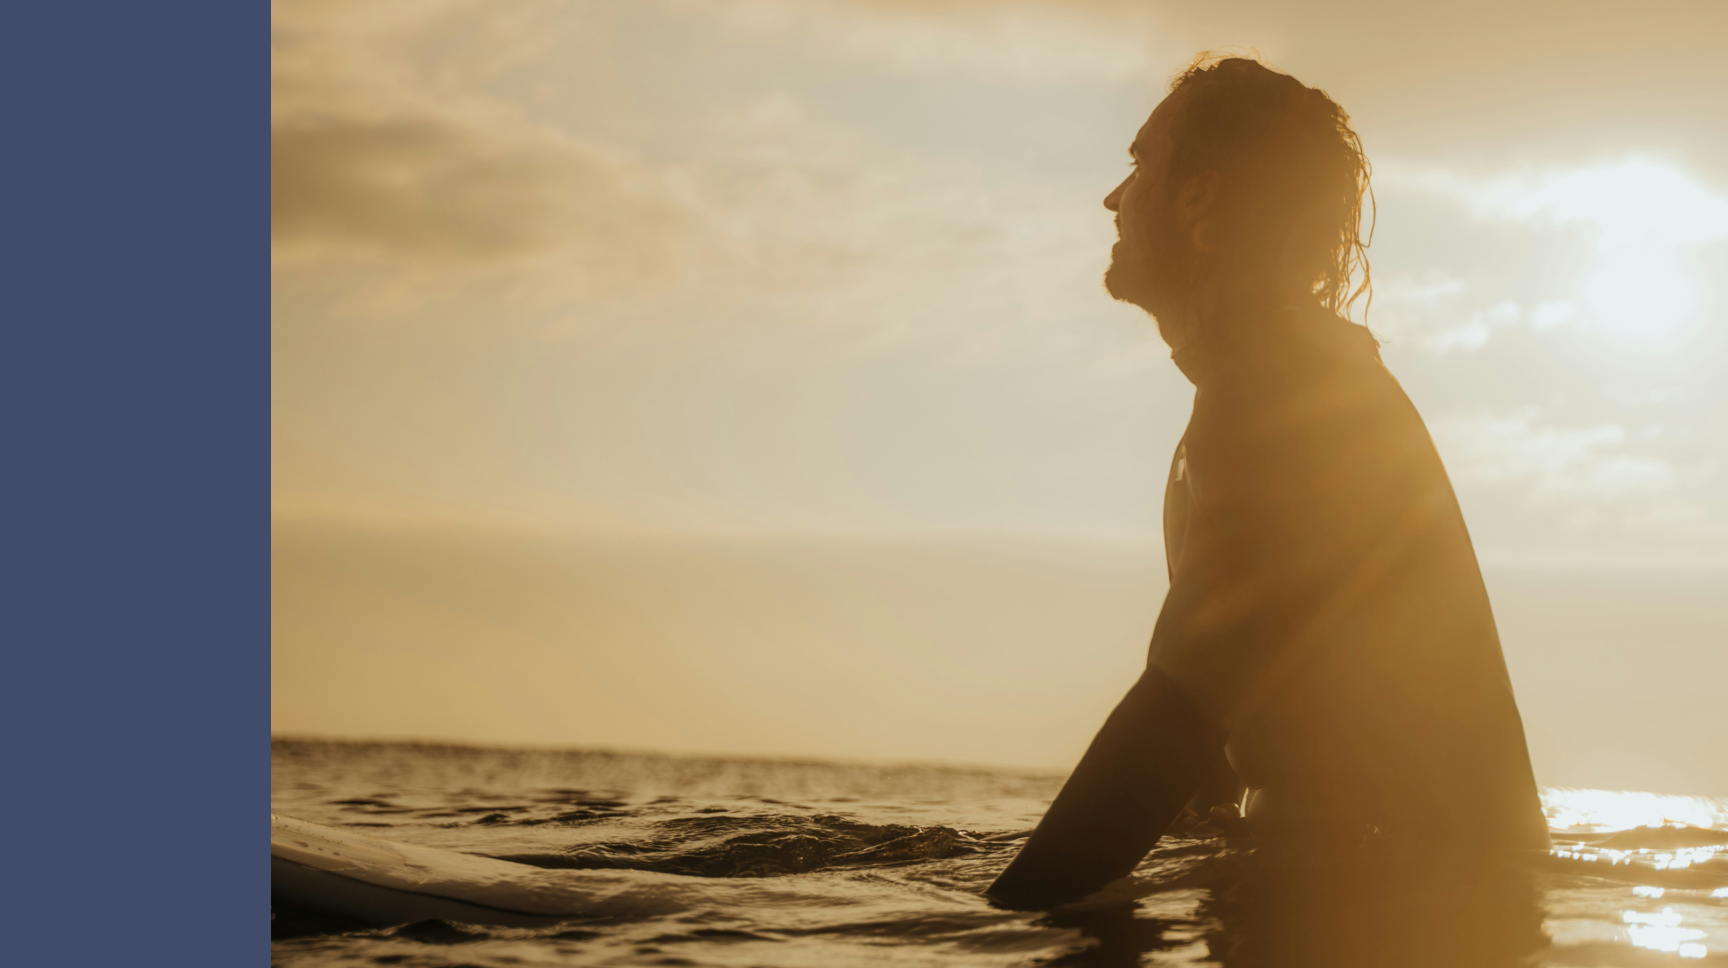
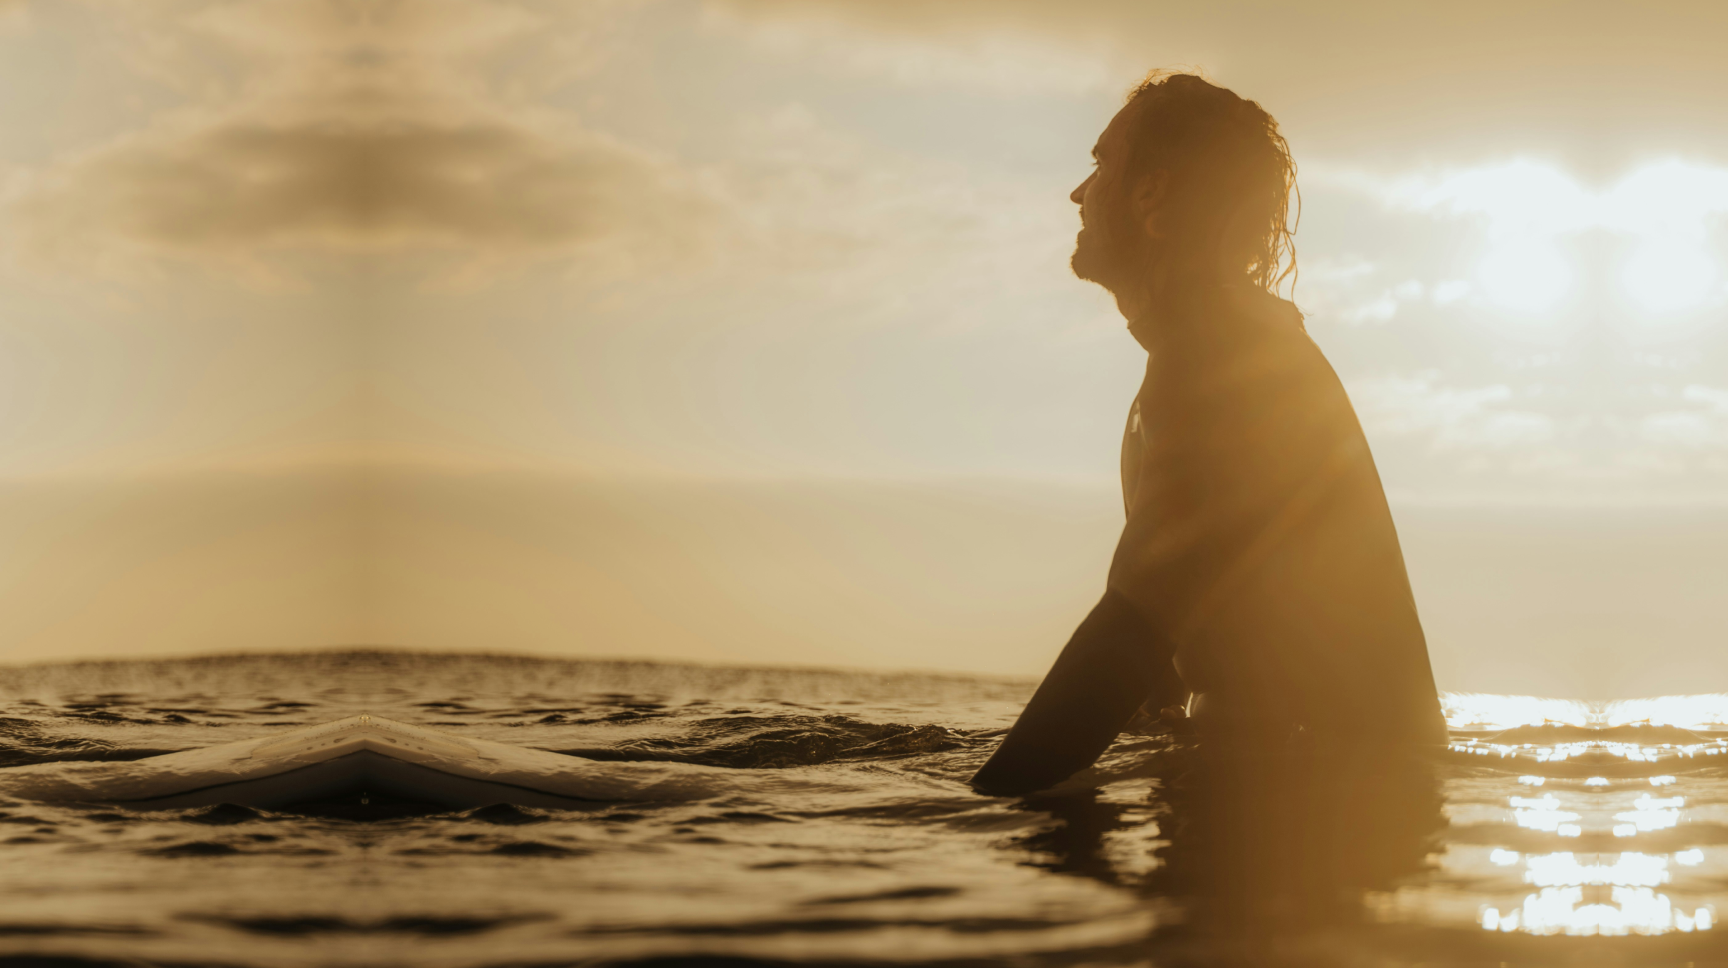
Swap surfer hero to selected Figma frame

diff --git a/figma-hero-shot.html b/figma-hero-shot.html
@@ -694,7 +694,7 @@
   </style>
 </head>
 <body>
-  <main class="hero-frame" aria-label="Aleron MD layered Figma hero carousel" data-build-signature="five-plane-test-20260530d-slide3-motion-blocks">
+  <main class="hero-frame" aria-label="Aleron MD layered Figma hero carousel" data-build-signature="five-plane-test-20260530e-selected-surfer-frame">
     <div class="hero-slide slide-one is-active" data-slide="0" aria-hidden="false">
       <img class="five-plane-layer hero-bg-plane" data-depth-plane="background" data-motion-layer="background" data-figma-node="674:41457 674:41458 674:41459" src="assets/figma-five-plane-test/hero01-bg-plane.png?v=five-plane-20260530b" alt="" aria-hidden="true" />
       <img class="five-plane-layer hero-mid-blocks-plane" data-depth-plane="midground-blocks" data-motion-layer="parallax-blocks" data-figma-node="674:41460 674:41466" src="assets/figma-five-plane-test/hero01-mid-blocks-plane.png?v=five-plane-20260530b" alt="" aria-hidden="true" />
@@ -703,10 +703,10 @@
     </div>
 
     <div class="hero-slide slide-two" data-slide="1" aria-hidden="true">
-      <img class="five-plane-layer hero-bg-plane" data-depth-plane="background" data-motion-layer="background" data-figma-node="674:41871" src="assets/figma-five-plane-test/hero02-bg-plane.png?v=five-plane-20260530b" alt="" aria-hidden="true" />
-      <img class="five-plane-layer hero-mid-blocks-plane" data-depth-plane="midground-blocks" data-motion-layer="parallax-blocks" data-figma-node="674:41872" src="assets/figma-five-plane-test/hero02-mid-blocks-plane.png?v=five-plane-20260530b" alt="" aria-hidden="true" />
-      <img class="five-plane-layer hero-subject-plane" data-depth-plane="foreground-subject" data-motion-layer="subject" data-figma-node="674:41904" src="assets/figma-five-plane-test/hero02-subject-plane.png?v=five-plane-20260530b" alt="" aria-hidden="true" />
-      <img class="five-plane-layer hero-anchor-block-plane" data-depth-plane="anchored-left-structure" data-motion-layer="anchored" data-figma-node="674:41872 674:41891" src="assets/figma-five-plane-test/hero02-anchor-block-plane.png?v=five-plane-20260530b" alt="" aria-hidden="true" />
+      <img class="five-plane-layer hero-bg-plane" data-depth-plane="background" data-motion-layer="background" data-figma-node="694:47607 694:45053 694:47598 694:47604" src="assets/figma-five-plane-test/hero02-bg-plane.png?v=five-plane-20260530e" alt="" aria-hidden="true" />
+      <img class="five-plane-layer hero-mid-blocks-plane" data-depth-plane="midground-blocks" data-motion-layer="parallax-blocks" data-figma-node="694:45054" src="assets/figma-five-plane-test/hero02-mid-blocks-plane.png?v=five-plane-20260530e" alt="" aria-hidden="true" />
+      <img class="five-plane-layer hero-subject-plane" data-depth-plane="foreground-subject" data-motion-layer="subject" data-figma-node="694:45086" src="assets/figma-five-plane-test/hero02-subject-plane.png?v=five-plane-20260530e" alt="" aria-hidden="true" />
+      <img class="five-plane-layer hero-anchor-block-plane" data-depth-plane="anchored-left-structure" data-motion-layer="anchored" data-figma-node="694:45073" src="assets/figma-five-plane-test/hero02-anchor-block-plane.png?v=five-plane-20260530e" alt="" aria-hidden="true" />
     </div>
 
     <div class="hero-slide slide-three" data-slide="2" aria-hidden="true">
@@ -732,8 +732,8 @@
       <a class="figma-button demo" data-figma-node="674:41513" href="#demo">Demo</a>
     </nav>
 
-    <p class="slide-count current" data-figma-node="674:41516">004</p>
-    <p class="slide-count total" data-figma-node="674:41515">/005</p>
+    <p class="slide-count current" data-figma-node="694:45103">001</p>
+    <p class="slide-count total" data-figma-node="694:45102">/004</p>
 
     <div class="carousel-dots" role="tablist" aria-label="Hero image carousel">
       <button class="carousel-dot is-active" type="button" role="tab" aria-selected="true" aria-label="Show hero image 1" data-carousel-target="0"></button>
@@ -840,7 +840,7 @@
         });
 
         if (currentCount) currentCount.textContent = String(activeIndex + 1).padStart(3, '0');
-        if (totalCount) totalCount.textContent = '/005';
+        if (totalCount) totalCount.textContent = '/004';
 
         requestUpdate();
       }

diff --git a/handoffs/2026-05-30-selected-surfer-frame-swap.md b/handoffs/2026-05-30-selected-surfer-frame-swap.md
@@ -1,0 +1,54 @@
+# Selected Figma surfer frame swap
+
+Date: 2026-05-30
+Repo: `meridian-landing`
+Source Figma frame: `694:44997` (`MacBook Pro 16" - 14`)
+Source visual slide: `694:45052` (`Slide 16:9 - 54`)
+
+## Goal
+
+Replace the current surfer/ocean carousel image with the currently selected Figma execution, because the selected frame has the better visual treatment.
+
+## Implementation
+
+Rebuilt slide 2 (`hero02-*`) from the selected Figma visual slide while preserving the existing five-plane HTML contract:
+
+1. `hero02-bg-plane.png`
+   - `694:47607`
+   - `694:45053`
+   - `694:47598`
+   - `694:47604`
+2. `hero02-mid-blocks-plane.png`
+   - `694:45054`
+3. `hero02-subject-plane.png`
+   - `694:45086`
+4. `hero02-anchor-block-plane.png`
+   - `694:45073`
+
+Also saved:
+
+- `hero02-selected-figma-reference.png`
+- `hero02-selected-reference-vs-five-plane.png`
+
+## Notes
+
+The Figma exports for the image rectangles were clipped by the selected 1728 x 968 frame, so their visible x positions are:
+
+- left tile: `x=0`
+- center tile: `x=365`
+- right sliver: `x=1595`
+
+Using the original absolute bbox y offset would miscompose the assets, because the exported PNGs are already clipped vertically to the selected frame.
+
+## Verification
+
+The generated five-plane composite was compared against the selected Figma reference:
+
+- mean RGB diff: `0.042`
+- max diff: `22.33`
+- pixels with diff > 50: `0`
+- no diff bbox above threshold 35
+
+The HTML was updated to cache-bust slide 2 assets with `five-plane-20260530e` and build signature `five-plane-test-20260530e-selected-surfer-frame`.
+
+Because the selected frame has four carousel items, the hero count chrome was also corrected from `/005` to `/004` and the initial current count from `004` to `001`.
